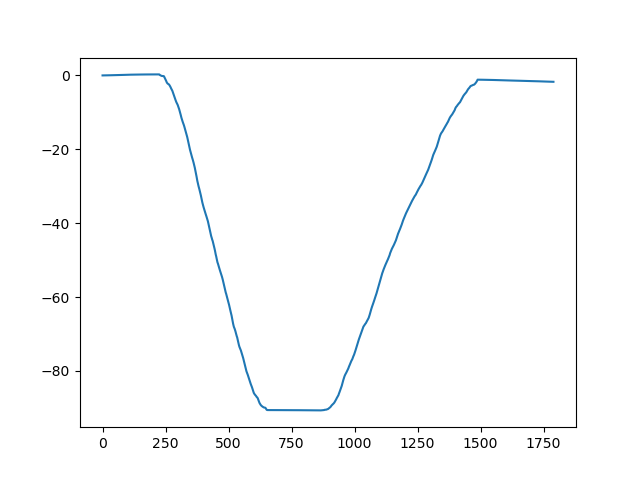
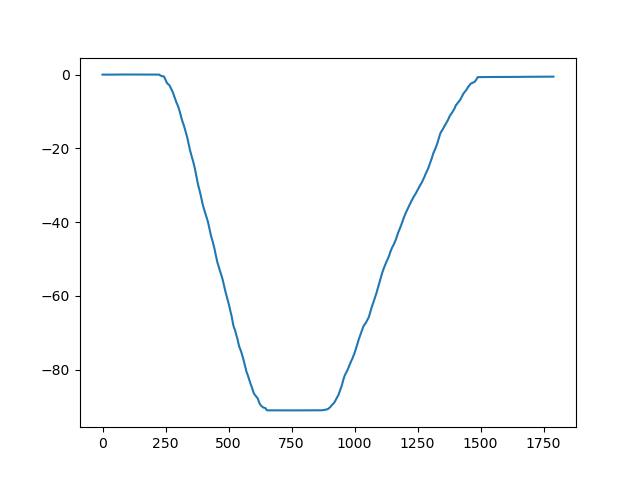
added low pass to kalman

diff --git a/idt_module_1_materials/exercise_imu_kalman/imu_exercise_kalman.py b/idt_module_1_materials/exercise_imu_kalman/imu_exercise_kalman.py
@@ -26,9 +26,9 @@ show3DLiveViewInterval = 3
 ##### Insert initialize code below ###################
 
 # approx. bias values determined by averaging over static measurements
-bias_gyro_x = 2.5/6000 # [rad/measurement]
-bias_gyro_y = 2.5/6000 # [rad/measurement]
-bias_gyro_z = 2.5/6000 # [rad/measurement]
+bias_gyro_x = 2*pi/90 # [rad/measurement]
+bias_gyro_y = 2*pi/90 # [rad/measurement]
+bias_gyro_z = 2*pi/90 # [rad/measurement]
 
 # variances
 gyroVar = 0.5
@@ -60,6 +60,8 @@ f = open (fileName, "r")
 count = 0
 relative_angle = 0
 bias=0
+a = 0.1 # low pass smoothing factor/cutoff
+prev_pitch = 0;
 # initialize 3D liveview
 if show3DLiveView == True:
 	imuview = imu_visualize()
@@ -121,12 +123,17 @@ for line in f:
 	# gyro_z	Angular velocity measured about the z axis
 
 	## Insert your code here ##
-	dt = (ts_now-ts_prev)
 	# calculate pitch (x-axis) and roll (y-axis) angles
 	pitch = atan2(-acc_y, acc_z)
 	roll = atan2(acc_x, sqrt(pow(acc_y,2.0) + pow(acc_z,2.0)))
 
+	if(prev_pitch == 0) :
+		prev_pitch = pitch
+	pitch = a*pitch + (1-a)*prev_pitch
+	prev_pitch = pitch
+
 	# integrate gyro velocities to releative angles
+	dt = (ts_now-ts_prev)
 	gyro_x_rel += gyro_x * dt
 	gyro_y_rel += gyro_y * dt
 	gyro_z_rel += gyro_z * dt
@@ -136,8 +143,9 @@ for line in f:
 	gyroVarAcc += gyroVar
 	predVar = estVar + gyroVarAcc*dt
 
-	estAngle = pred_pitch
-	estVar = predVar
+	# Not necesarry to update due to new samples every step
+	# estAngle = pred_pitch
+	# estVar = predVar
 
 	# Kalman correction step (we have new data in each iteration) 
 	K = pred_pitch / (gyro_x_rel - pred_pitch)
@@ -145,10 +153,10 @@ for line in f:
 	corrVar = predVar *(1 -K)
 	estAngle = corrAngle
 	estVar = corrVar
-	gyroVarAccumulated = 0
+	gyroVarAccumulated = 0 # reset acc variance
 
 	# define which value to plot as the Kalman filter estimate
-	kalman_estimate = corrAngle
+	kalman_estimate = estAngle
 
 	# define which value to plot as the absolute value (pitch/roll)
 	pitch_roll_plot = pitch

diff --git a/idt_module_1_materials/exercise_imu/imu_exercise.py b/idt_module_1_materials/exercise_imu/imu_exercise.py
@@ -108,7 +108,7 @@ for line in f:
 
 	# Exersice 3.3: relative angle
 	dt = (ts_now-ts_prev)
-	bias += 2.5/6000 * dt
+	bias = 2.5/1000
 	# print("value" ,bias/count)
 	relative_angle += (gyro_z - bias) *dt 
 
